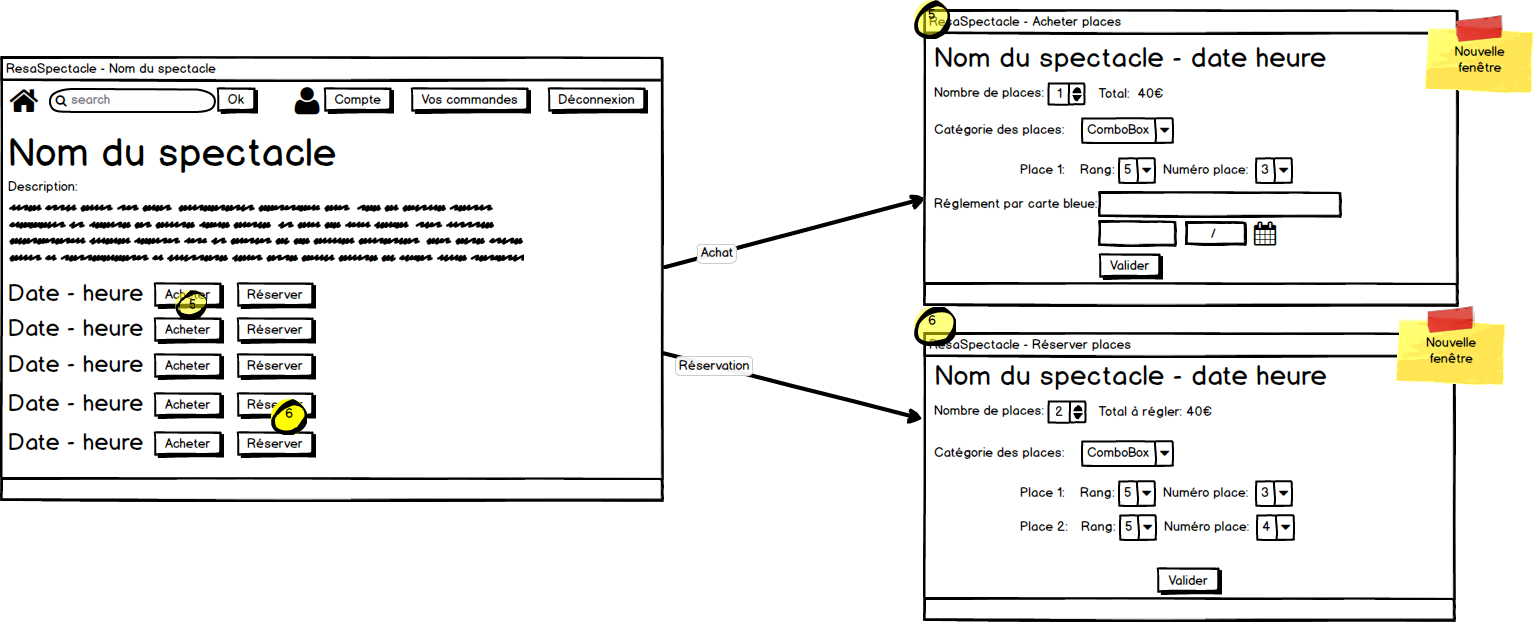
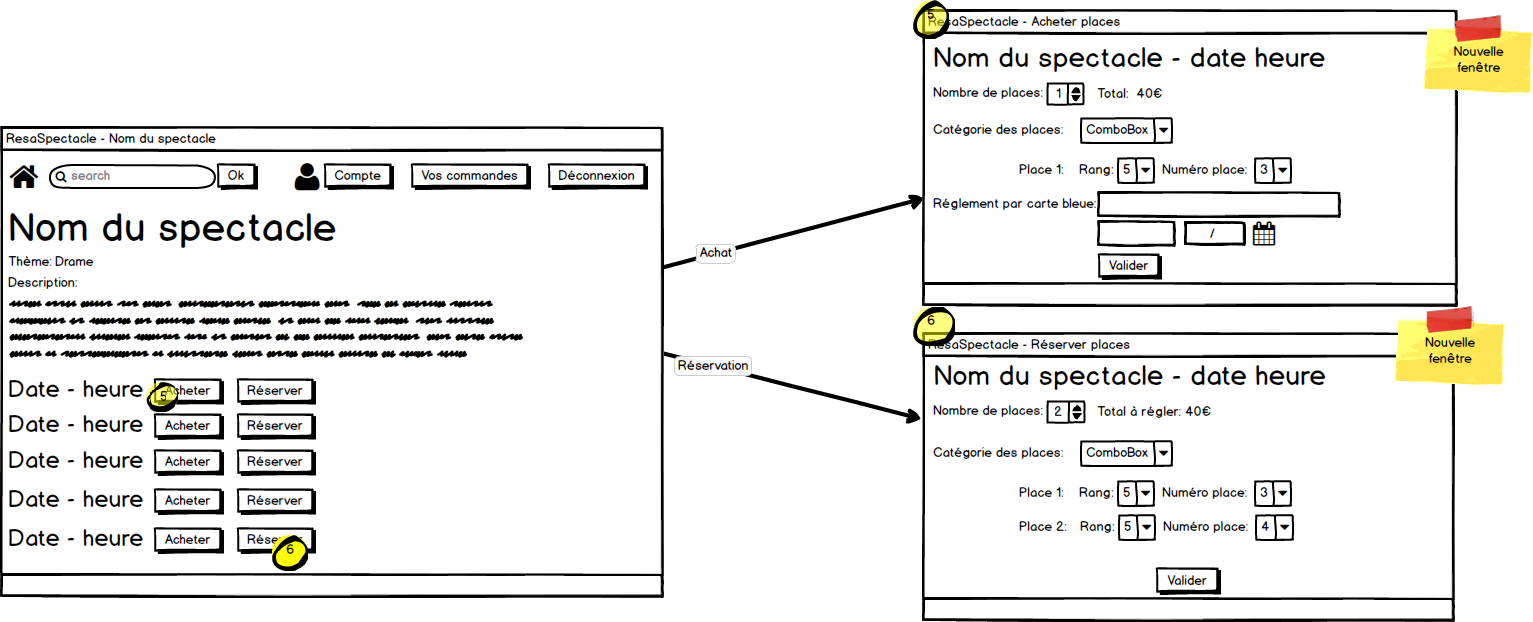
ajout theme page spectacle client

diff --git a/src/vue/PageSpectacleClient.java b/src/vue/PageSpectacleClient.java
@@ -60,7 +60,7 @@ public class PageSpectacleClient {
 	 */
 	private void initialize() {
 		frame = new JFrame();
-		frame.setBounds(100, 100, 560, 300);
+		frame.setBounds(100, 100, 560, 400);
 		frame.setDefaultCloseOperation(JFrame.EXIT_ON_CLOSE);
 		frame.getContentPane().setLayout(new BorderLayout(0, 0));
 		
@@ -126,12 +126,27 @@ public class PageSpectacleClient {
 		gbl_panel_content.rowWeights = new double[]{1.0, 1.0, 1.0, Double.MIN_VALUE};
 		panel_content.setLayout(gbl_panel_content);
 		
+		JPanel panel_theme = new JPanel();
+		FlowLayout flowLayout_3 = (FlowLayout) panel_theme.getLayout();
+		flowLayout_3.setAlignment(FlowLayout.LEFT);
+		GridBagConstraints gbc_panel_theme = new GridBagConstraints();
+		gbc_panel_theme.fill = GridBagConstraints.BOTH;
+		gbc_panel_theme.gridx = 0;
+		gbc_panel_theme.gridy = 0;
+		panel_content.add(panel_theme, gbc_panel_theme);
+		
+		JLabel lblThme = new JLabel("Th\u00E8me:");
+		panel_theme.add(lblThme);
+		
+		JLabel lblDrame = new JLabel("Drame");
+		panel_theme.add(lblDrame);
+		
 		JPanel panel_description = new JPanel();
 		GridBagConstraints gbc_panel_description = new GridBagConstraints();
 		gbc_panel_description.insets = new Insets(0, 0, 5, 0);
 		gbc_panel_description.fill = GridBagConstraints.BOTH;
 		gbc_panel_description.gridx = 0;
-		gbc_panel_description.gridy = 0;
+		gbc_panel_description.gridy = 1;
 		panel_content.add(panel_description, gbc_panel_description);
 		panel_description.setLayout(new BorderLayout(0, 0));
 		
@@ -153,13 +168,14 @@ public class PageSpectacleClient {
 		txtpnl_description.setText("jhvhjuvhjvhjvhjjvjhvhj hbbbbbbbbbbbbbbbbbbbb gvvvvvvvvvvvvvvvvvvv Un parc d'attractions peupl\u00E9 de robots propose aux visiteurs de se replonger dans plusieurs \u00E9poques. Lanc\u00E9s dans l'ouest sauvage, deux amis se retrouvent plong\u00E9s en plein cauchemar quand l'un des andro\u00EFdes se d\u00E9traque et les prend en chasse...\r\nUn parc d'attractions peupl\u00E9 de robots propose aux visiteurs de se replonger dans plusieurs \u00E9poques. Lanc\u00E9s dans l'ouest sauvage, deux amis se retrouvent plong\u00E9s en plein cauchemar quand l'un des andro\u00EFdes se d\u00E9traque et les prend en chasse...\r\nUn parc d'attractions peupl\u00E9 de robots propose aux visiteurs de se replonger dans plusieurs \u00E9poques. Lanc\u00E9s dans l'ouest sauvage, deux amis se retrouvent plong\u00E9s en plein cauchemar quand l'un des andro\u00EFdes se d\u00E9traque et les prend en chasse...\r\nUn parc d'attractions peupl\u00E9 de robots propose aux visiteurs de se replonger dans plusieurs \u00E9poques. Lanc\u00E9s dans l'ouest sauvage, deux amis se retrouvent plong\u00E9s en plein cauchemar quand l'un des andro\u00EFdes se d\u00E9traque et les prend en chasse...\r\nUn parc d'attractions peupl\u00E9 de robots propose aux visiteurs de se replonger dans plusieurs \u00E9poques. Lanc\u00E9s dans l'ouest sauvage, deux amis se retrouvent plong\u00E9s en plein cauchemar quand l'un des andro\u00EFdes se d\u00E9traque et les prend en chasse...\r\n");
 		panel_description_content.add(txtpnl_description);
 		
+		
 		JPanel panel_listeRepresentation = new JPanel();
 		GridBagConstraints gbc_panel_listeRepresentation = new GridBagConstraints();
 		gbc_panel_listeRepresentation.gridheight = 2;
 		gbc_panel_listeRepresentation.insets = new Insets(0, 0, 5, 0);
 		gbc_panel_listeRepresentation.fill = GridBagConstraints.BOTH;
 		gbc_panel_listeRepresentation.gridx = 0;
-		gbc_panel_listeRepresentation.gridy = 1;
+		gbc_panel_listeRepresentation.gridy = 2;
 		panel_content.add(panel_listeRepresentation, gbc_panel_listeRepresentation);
 		GridBagLayout gbl_panel_listeRepresentation = new GridBagLayout();
 		gbl_panel_listeRepresentation.columnWidths = new int[]{0, 0};
@@ -202,6 +218,8 @@ public class PageSpectacleClient {
 		
 		JButton btnRserver_1 = new JButton("R\u00E9server");
 		panel_representation_2.add(btnRserver_1);
+		
+		
 	}
 
 }

diff --git a/src/vue/Center/PanelCenterSpectacleClient.java b/src/vue/Center/PanelCenterSpectacleClient.java
@@ -21,7 +21,7 @@ import javax.swing.UIManager;
 public class PanelCenterSpectacleClient extends PanelCenter {
 	private JPanel panel_listeRepresentation;
 	
-	public PanelCenterSpectacleClient(String nom, String description) {
+	public PanelCenterSpectacleClient(String nom, String description, String theme) {
 		this.init();
 		JLabel lblTitreSpectacle = new JLabel(nom);
 		lblTitreSpectacle.setFont(new Font("Arial", Font.PLAIN, 16));
@@ -34,12 +34,27 @@ public class PanelCenterSpectacleClient extends PanelCenter {
 		gbl_panel_content.rowWeights = new double[]{1.0, 1.0, 1.0, Double.MIN_VALUE};
 		panel_content.setLayout(gbl_panel_content);
 		
+		JPanel panel_theme = new JPanel();
+		FlowLayout flowLayout_3 = (FlowLayout) panel_theme.getLayout();
+		flowLayout_3.setAlignment(FlowLayout.LEFT);
+		GridBagConstraints gbc_panel_theme = new GridBagConstraints();
+		gbc_panel_theme.fill = GridBagConstraints.BOTH;
+		gbc_panel_theme.gridx = 0;
+		gbc_panel_theme.gridy = 0;
+		panel_content.add(panel_theme, gbc_panel_theme);
+		
+		JLabel lblThme = new JLabel("Th\u00E8me:");
+		panel_theme.add(lblThme);
+		
+		JLabel lblDrame = new JLabel(theme);
+		panel_theme.add(lblDrame);
+		
 		JPanel panel_description = new JPanel();
 		GridBagConstraints gbc_panel_description = new GridBagConstraints();
 		gbc_panel_description.insets = new Insets(0, 0, 5, 0);
 		gbc_panel_description.fill = GridBagConstraints.BOTH;
 		gbc_panel_description.gridx = 0;
-		gbc_panel_description.gridy = 0;
+		gbc_panel_description.gridy = 1;
 		panel_content.add(panel_description, gbc_panel_description);
 		panel_description.setLayout(new BorderLayout(0, 0));
 		
@@ -57,7 +72,6 @@ public class PanelCenterSpectacleClient extends PanelCenter {
 		panel_description.add(panel_description_content, BorderLayout.CENTER);
 		
 		JTextPane txtpnl_description = new JTextPane();
-		//txtpnl_description.setDropMode(DropMode.ON);
 		txtpnl_description.setBackground(UIManager.getColor("menu"));
 		txtpnl_description.setText(description);
 		panel_description_content.add(txtpnl_description);
@@ -68,7 +82,7 @@ public class PanelCenterSpectacleClient extends PanelCenter {
 		gbc_panel_listeRepresentation.insets = new Insets(0, 0, 5, 0);
 		gbc_panel_listeRepresentation.fill = GridBagConstraints.BOTH;
 		gbc_panel_listeRepresentation.gridx = 0;
-		gbc_panel_listeRepresentation.gridy = 1;
+		gbc_panel_listeRepresentation.gridy = 2;
 		panel_content.add(panel_listeRepresentation, gbc_panel_listeRepresentation);
 		GridBagLayout gbl_panel_listeRepresentation = new GridBagLayout();
 		gbl_panel_listeRepresentation.columnWidths = new int[]{0, 0};
